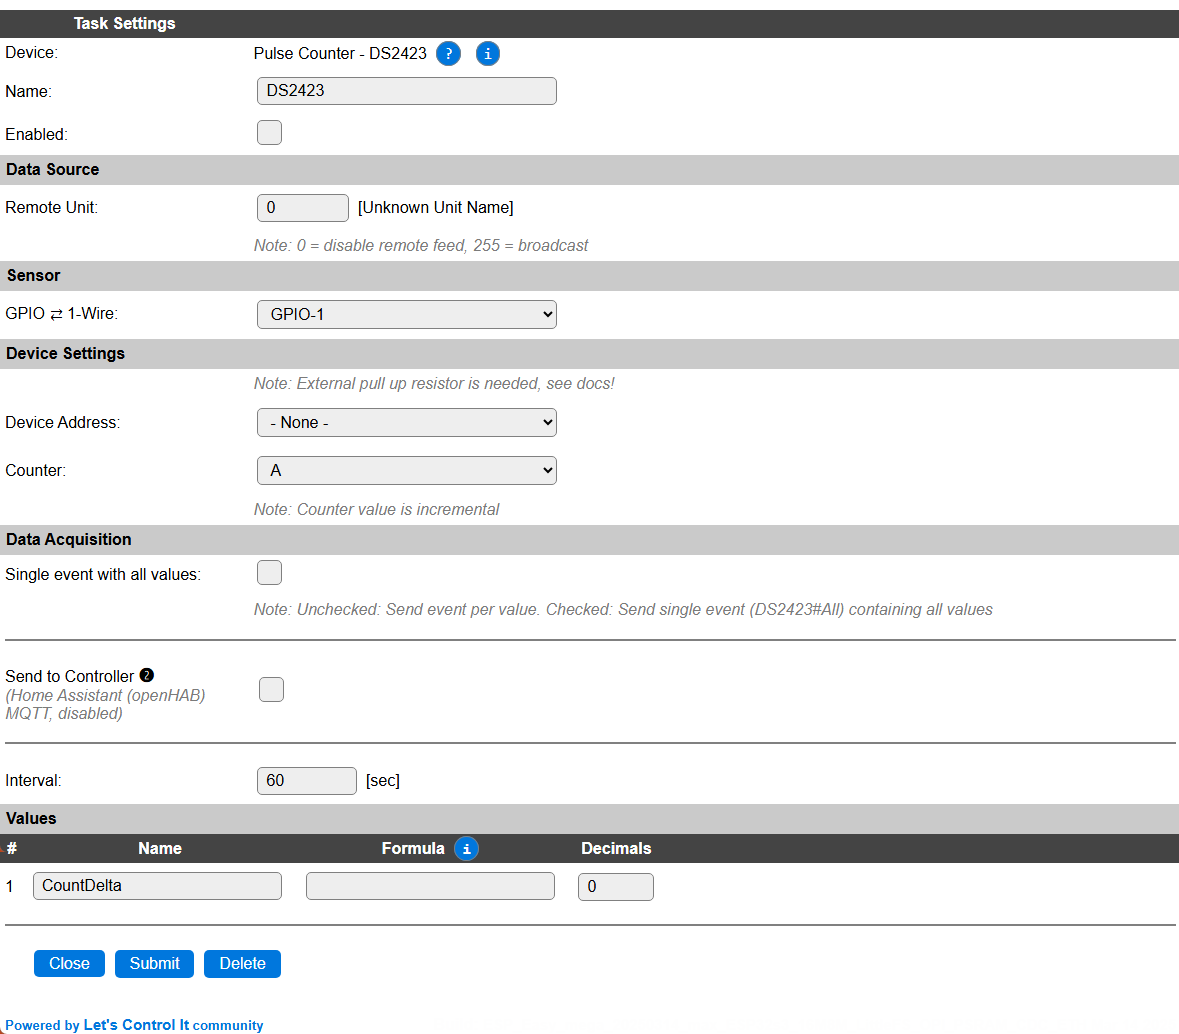
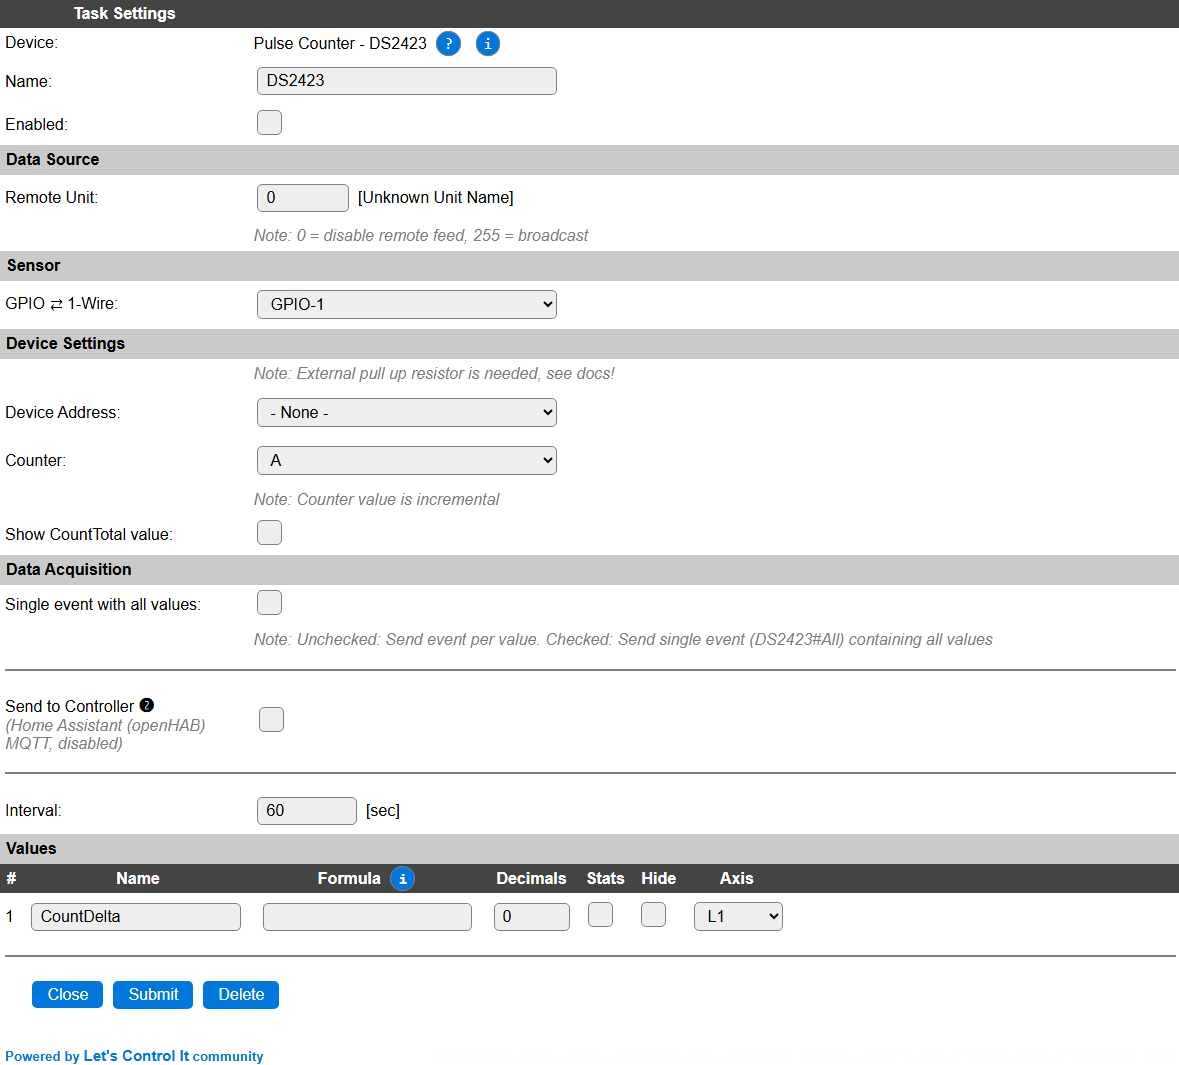
[P100] Update documentation

Changed region(s): [[0.0, 0.0, 1.0, 0.9594], [0.0, 0.9903, 0.1832, 1.0]]

diff --git a/docs/source/Plugin/P100.rst b/docs/source/Plugin/P100.rst
@@ -49,6 +49,10 @@ Device Settings
 
 * **Counter**: Select either counter **A** or counter **B**, for each counter a separate task has to be configured, if you have wired both the **A** and **B** counter to a counter source.
 
+* **Show CountTotal Value**: When checked, and the settings saved, the ``CountTotal`` value will also be shown, and sent to Controllers if so configured. The ``CountTotal`` value is available, wether this option is enabled or not (see below: **Get Config Values**).
+
+.. image:: P100_CountTotalEnabled.png
+
 
 Data Acquisition
 ^^^^^^^^^^^^^^^^
@@ -60,7 +64,7 @@ This group of settings, **Single event with all values** and **Send to Controlle
 Values
 ^^^^^^
 
-The plugin provides the ``CountDelta`` value, that will hold the delta compared to the previous read value. This delta depends on the **Interval** value, as waiting longer for a new value will probably increase the counted difference. A formula can be set to recalculate. The number of decimals can be set as desired, though for a count that doesn't make much sense.
+The plugin provides the ``CountDelta`` value, that will hold the delta compared to the previous read value, and optionally also the ``CountTotal`` value. This delta depends on the **Interval** value, as waiting longer for a new value will probably increase the counted difference. A formula can be set to recalculate. The number of decimals can be set as desired, though for a count that doesn't make much sense.
 
 Per Value is a **Stats** checkbox available, that when checked, gathers the data and presents recent data in a graph, as described here: :ref:`Task Value Statistics:  <Task Value Statistics>`
 
@@ -84,5 +88,7 @@ Change log
 
 .. versionchanged:: 2.0
   ...
+
+  |changed| 2025-03-15 Add CountTotal value, and enable PluginStats feature.
 
   |added| 2020-04-25
